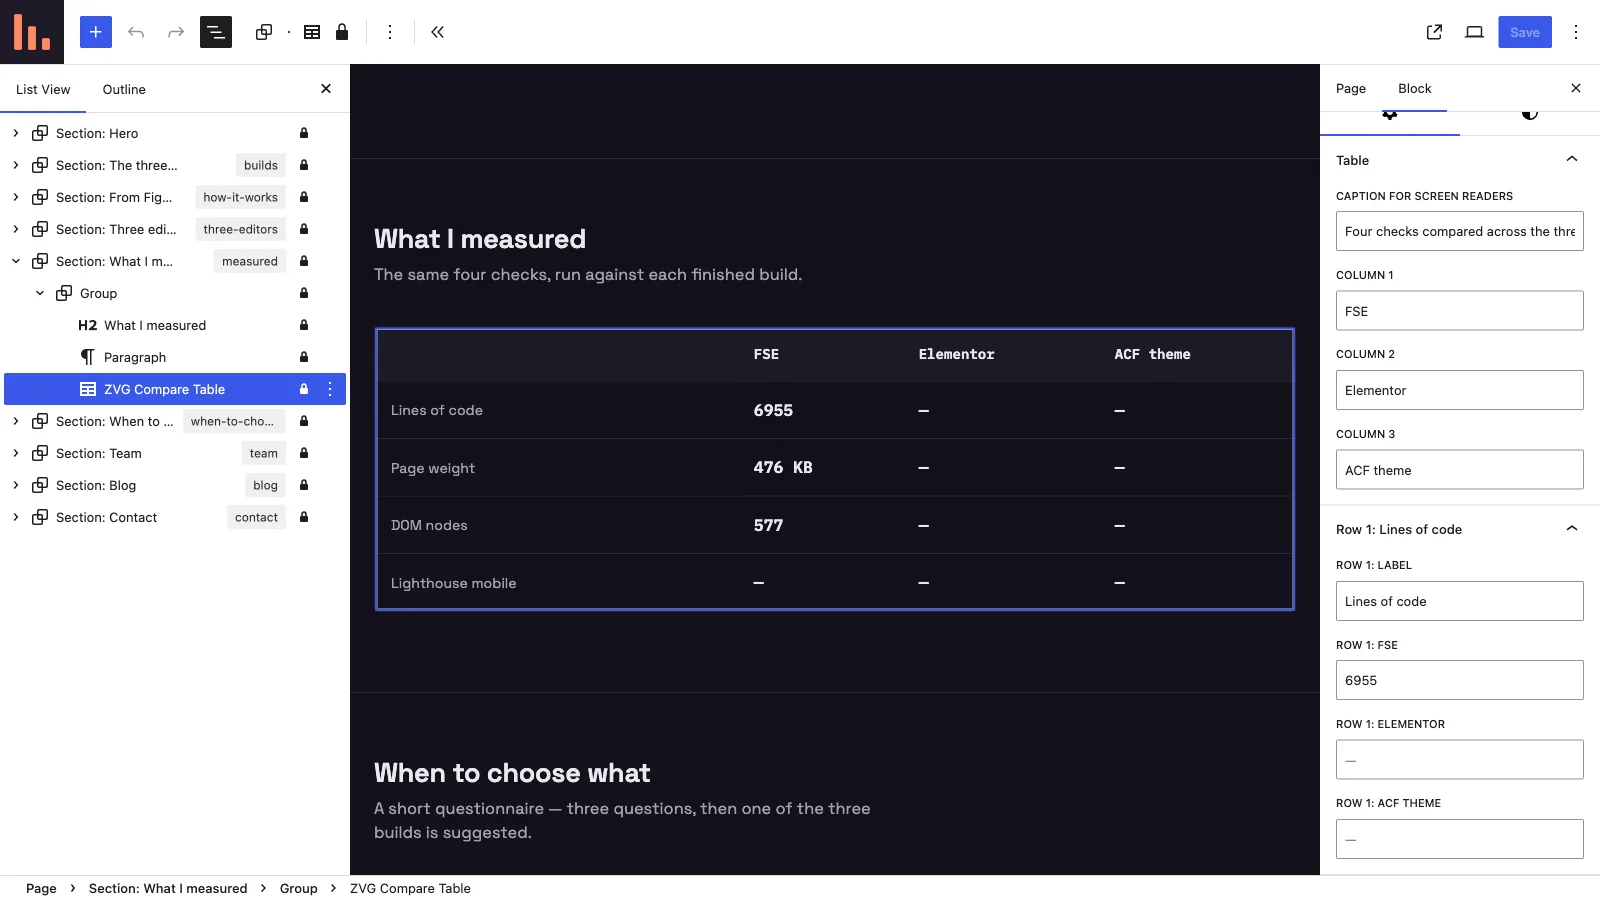
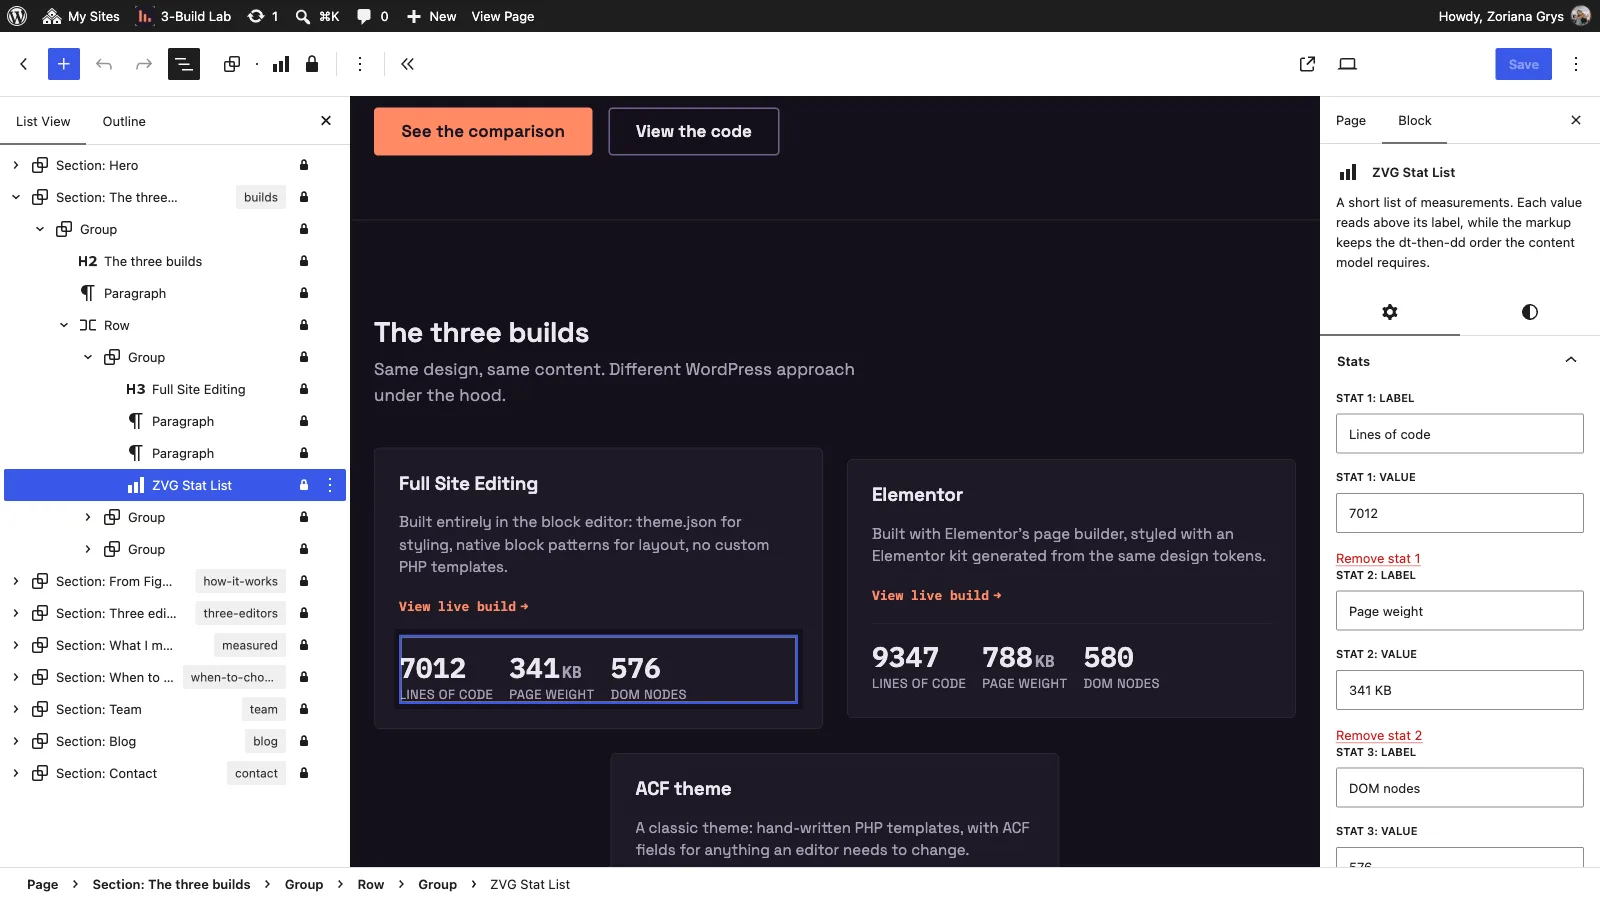
Show all three editors in the three editors section (#46)

diff --git a/themes/zvg-fse/patterns/section-editors.php b/themes/zvg-fse/patterns/section-editors.php
@@ -16,15 +16,19 @@ $zvg_fse_editors = array(
 	array(
 		'shot'    => _x( 'Screenshot — block editor', 'Editor screenshot placeholder', 'zvg-fse' ),
 		'image'   => 'editor-fse.webp',
-		'alt'     => _x( 'The landing page open in the WordPress block editor, with a measurements block selected and its settings in the sidebar', 'Editor screenshot', 'zvg-fse' ),
+		'alt'     => _x( 'The landing page open in the WordPress block editor, with the three builds section selected in the list view and its settings in the sidebar', 'Editor screenshot', 'zvg-fse' ),
 		'caption' => _x( 'Editing means selecting blocks in place; styling choices are limited to what theme.json allows.', 'Editor caption', 'zvg-fse' ),
 	),
 	array(
 		'shot'    => _x( 'Screenshot — Elementor canvas', 'Editor screenshot placeholder', 'zvg-fse' ),
+		'image'   => 'editor-elementor.webp',
+		'alt'     => _x( 'The same landing page open in the Elementor editor, with the three builds section selected and the structure panel listing every section', 'Editor screenshot', 'zvg-fse' ),
 		'caption' => _x( 'Editing is drag-and-drop with every setting exposed, which is fast but easy to drift from the tokens.', 'Editor caption', 'zvg-fse' ),
 	),
 	array(
 		'shot'    => _x( 'Screenshot — WP admin with ACF fields', 'Editor screenshot placeholder', 'zvg-fse' ),
+		'image'   => 'editor-acf.webp',
+		'alt'     => _x( 'The same landing page in the WordPress admin, with the three builds section expanded as a list of labelled ACF fields', 'Editor screenshot', 'zvg-fse' ),
 		'caption' => _x( 'Editing is filling labelled fields; the layout itself is not editable, which keeps the design intact.', 'Editor caption', 'zvg-fse' ),
 	),
 );
